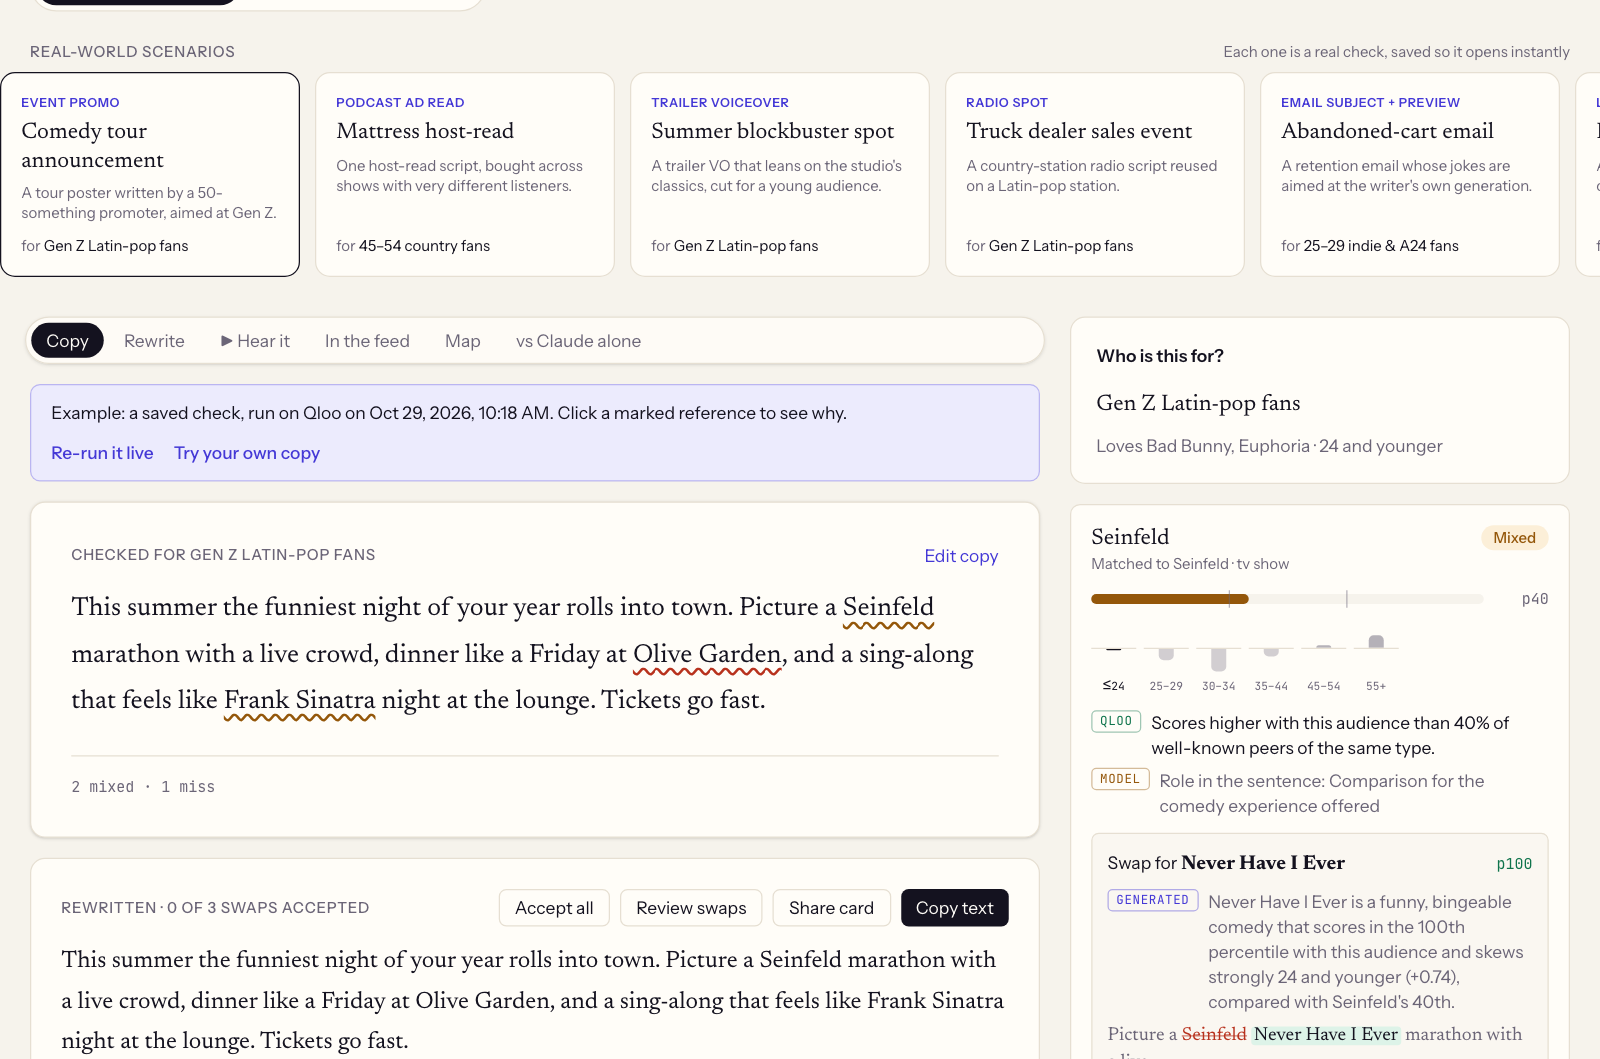
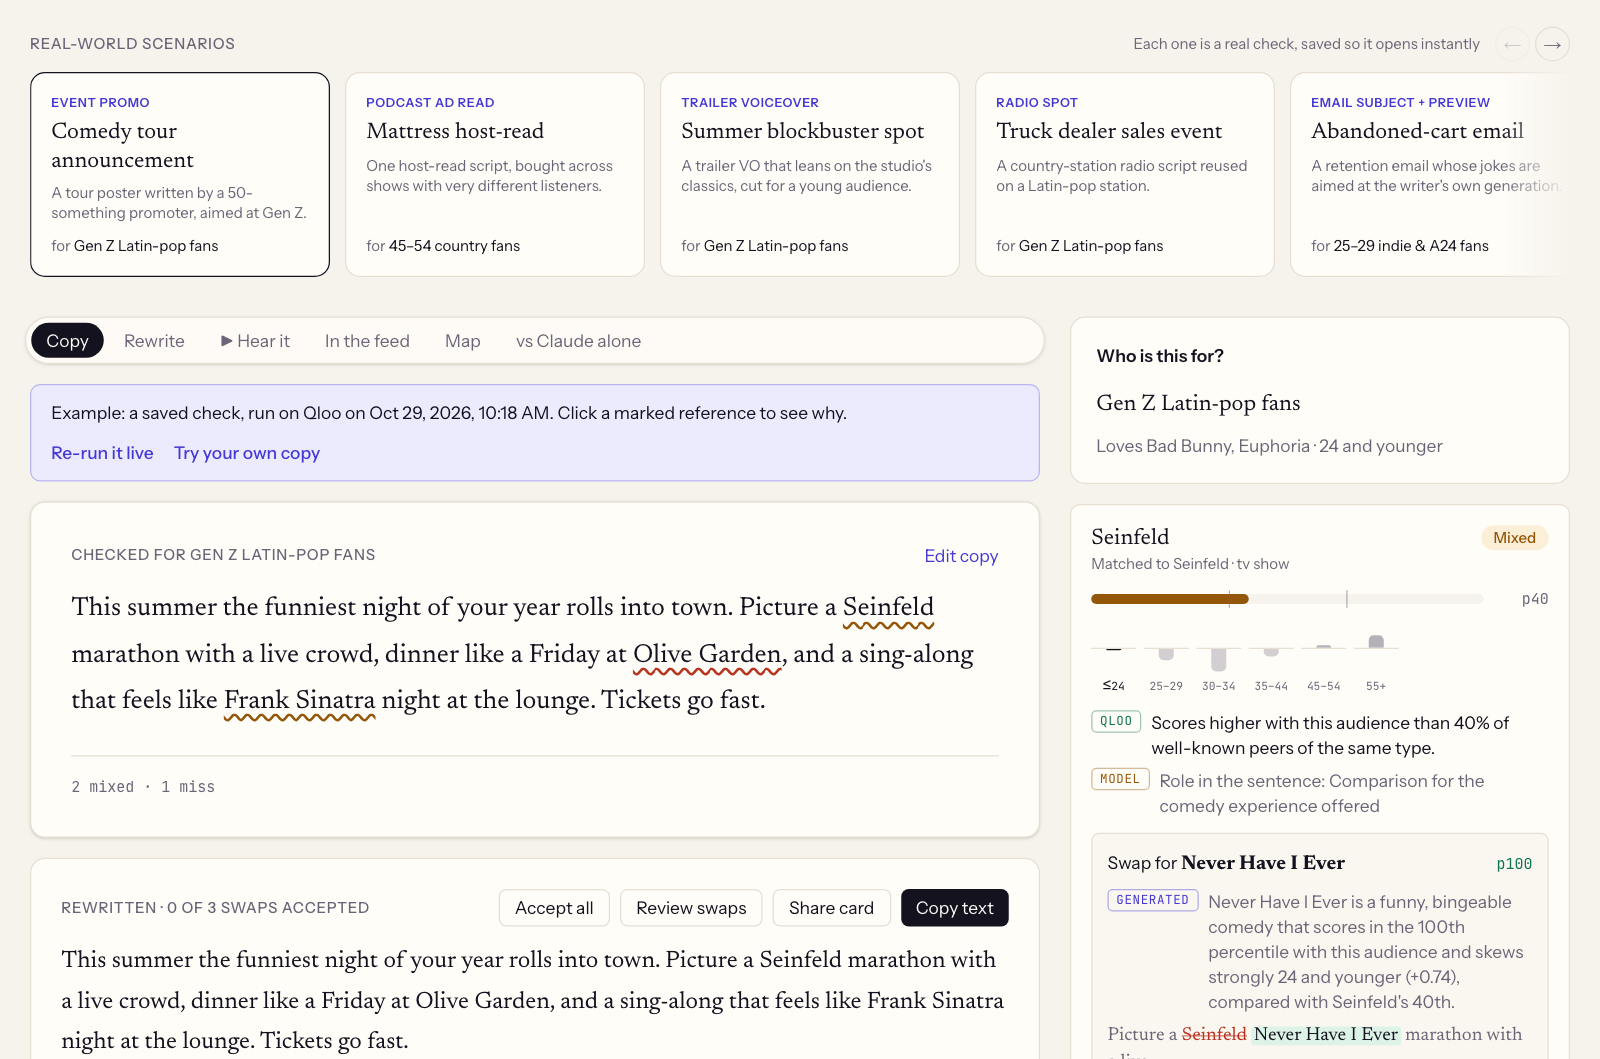
Scenario row stays inside its section, with arrows and an edge fade
The row bled into the page padding, so its first card poked out of the
section (and the tour's spotlight) and the last was cut off hard. It now
scrolls within the section, fades only where a card is cut off, and has
arrow buttons on wider screens. Same fix for the Your checks row.

diff --git a/src/components/scenario-gallery.tsx b/src/components/scenario-gallery.tsx
@@ -1,15 +1,63 @@
 "use client";
 
+import { useEffect, useRef, useState } from "react";
 import { SCENARIOS, type Scenario } from "@/lib/vernacular/scenarios";
 
 export function ScenarioGallery({ active, loading, onOpen }: { active: string | null; loading: string | null; onOpen: (s: Scenario) => void }) {
+  const row = useRef<HTMLDivElement>(null);
+  const [edges, setEdges] = useState({ start: true, end: false });
+
+  // Track whether the row can scroll further each way, for the arrows and the edge fades.
+  useEffect(() => {
+    const el = row.current;
+    if (!el) return;
+    const update = () => setEdges({ start: el.scrollLeft <= 2, end: el.scrollLeft + el.clientWidth >= el.scrollWidth - 2 });
+    update();
+    el.addEventListener("scroll", update, { passive: true });
+    window.addEventListener("resize", update);
+    return () => {
+      el.removeEventListener("scroll", update);
+      window.removeEventListener("resize", update);
+    };
+  }, []);
+
+  const scrollBy = (dir: 1 | -1) => {
+    const el = row.current;
+    if (!el) return;
+    const reduce = window.matchMedia("(prefers-reduced-motion: reduce)").matches;
+    el.scrollBy({ left: dir * Math.max(260, el.clientWidth * 0.8), behavior: reduce ? "auto" : "smooth" });
+  };
+
+  // Fade only the right edge, and only while a card is cut off there: cards snap flush left.
+  const fade = edges.end ? undefined : "linear-gradient(to right, black calc(100% - 56px), transparent)";
+
   return (
-    <section className="flex flex-col gap-2" aria-label="Real-world scenarios">
-      <div className="flex items-baseline justify-between gap-3">
+    <section className="flex min-w-0 flex-col gap-2" aria-label="Real-world scenarios">
+      <div className="flex items-center justify-between gap-3">
         <h2 className="text-xs font-medium uppercase tracking-wider text-muted">Real-world scenarios</h2>
-        <span className="hidden text-xs text-muted sm:inline">Each one is a real check, saved so it opens instantly</span>
+        <div className="flex items-center gap-3">
+          <span className="hidden text-xs text-muted md:inline">Each one is a real check, saved so it opens instantly</span>
+          <div className="hidden gap-1 sm:flex">
+            {([-1, 1] as const).map((d) => (
+              <button
+                key={d}
+                type="button"
+                onClick={() => scrollBy(d)}
+                disabled={d < 0 ? edges.start : edges.end}
+                aria-label={d < 0 ? "Earlier scenarios" : "More scenarios"}
+                className="flex h-7 w-7 items-center justify-center rounded-full border border-rule text-sm text-muted transition-colors hover:border-ink hover:text-ink disabled:opacity-30"
+              >
+                {d < 0 ? "←" : "→"}
+              </button>
+            ))}
+          </div>
+        </div>
       </div>
-      <div className="-mx-4 flex snap-x gap-3 overflow-x-auto px-4 pb-2 sm:-mx-6 sm:px-6">
+      <div
+        ref={row}
+        className="flex snap-x snap-mandatory gap-3 overflow-x-auto scroll-smooth pb-2 [scrollbar-width:thin]"
+        style={{ maskImage: fade, WebkitMaskImage: fade }}
+      >
         {SCENARIOS.map((s) => (
           <button
             key={s.id}

diff --git a/src/components/history.tsx b/src/components/history.tsx
@@ -57,7 +57,7 @@ export function YourChecks({ items, onOpen, onClear }: { items: HistoryItem[]; o
           Clear · kept only in this browser
         </button>
       </div>
-      <div className="-mx-4 flex snap-x gap-3 overflow-x-auto px-4 pb-2 sm:-mx-6 sm:px-6">
+      <div className="flex snap-x gap-3 overflow-x-auto pb-2">
         {items.map((h) => (
           <button
             key={h.id}
